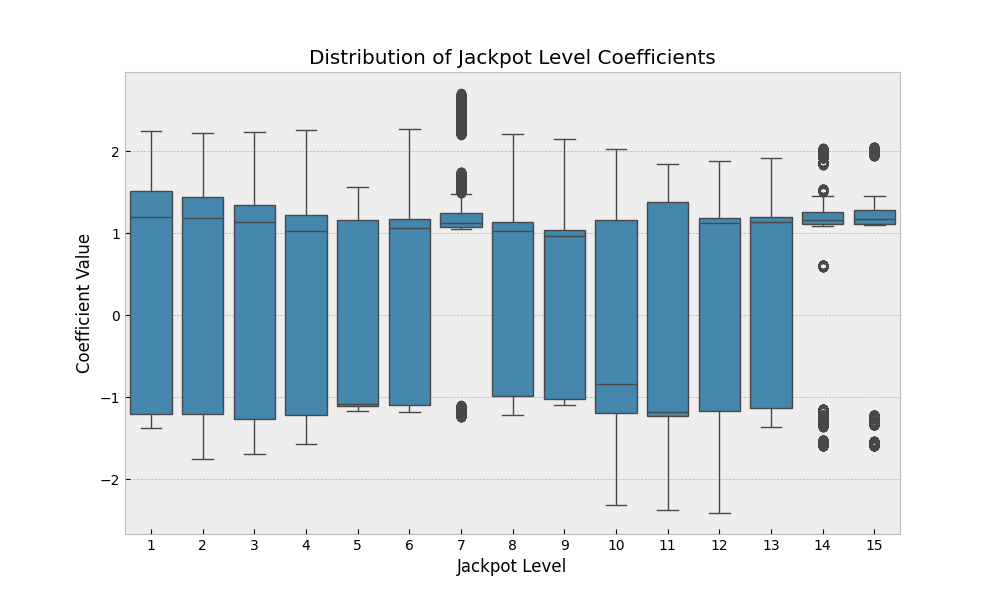
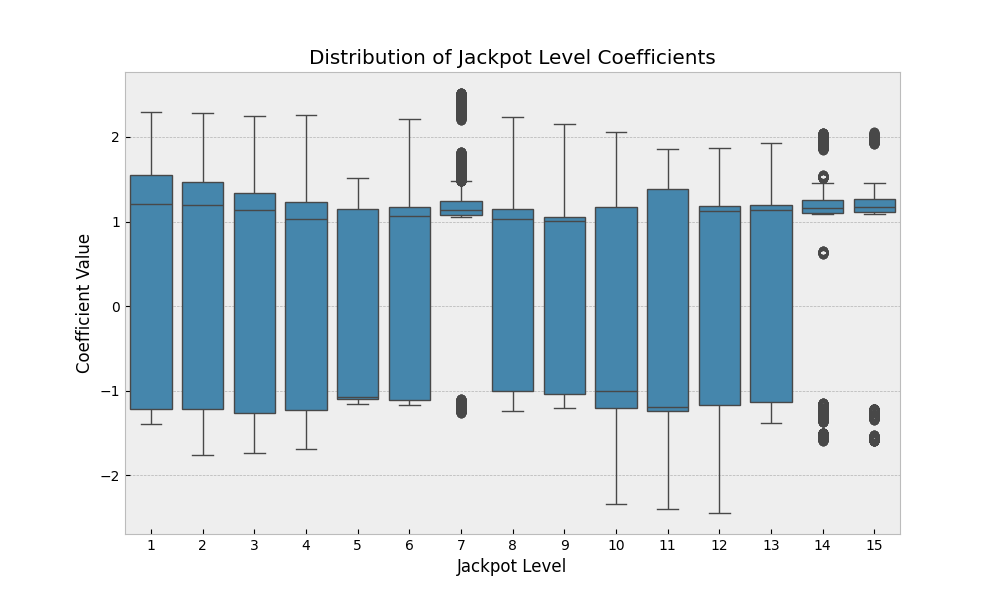
specs next stuff

diff --git a/models.py b/models.py
@@ -36,7 +36,7 @@ def bayes_linreg_model(jackpot_category,spends, sales, dayofyear, index):
     # j-pot categories
     n_jackpot_categories = len(np.unique(jackpot_category)) # infer number of categories
     with plate("jackpot_plate", n_jackpot_categories):  # Use a plate for categories
-        c_jackpot = numpyro.sample('c_jackpot', dist.Normal(0, 5)) # Prior for each category
+        c_jackpot = numpyro.sample('c_jackpot', dist.Normal(0, 10)) # Prior for each category
     #jackpot prior
     jackpot_effect = c_jackpot[jackpot_category]
     jackpot = jackpot_effect*jackpot_category
@@ -53,7 +53,7 @@ def bayes_linreg_model(jackpot_category,spends, sales, dayofyear, index):
     seasonality = day_of_year_effect[dayofyear -1]  # dayofyear is 1-indexed, so we adjust
 
     # Coefficiency spends prior
-    coef_spends = numpyro.sample('coef_spends', dist.Normal(jnp.mean(spends)/1000,jnp.std(spends)/1000))
+    coef_spends = numpyro.sample('coef_spends', dist.Normal(jnp.mean(spends)/1000,jnp.std(spends)/500))
     media_effect = coef_spends*spends
     epsilon = numpyro.sample("epsilon", dist.Normal(0, 0.05))
 
@@ -66,4 +66,5 @@ def bayes_linreg_model(jackpot_category,spends, sales, dayofyear, index):
 
 
 
-    
+
+#TODO: Create a model where jackpot level is a confounder, effecting both sales and media channels 

diff --git a/linear_algo_run.py b/linear_algo_run.py
@@ -101,7 +101,7 @@ plt.savefig("results/posterior_of_jackpot_coef.png")
 
 # Plot prior vs posterior plots in the same histogram
 fig, ax = plt.subplots()
-coef_prior= np.random.normal(jnp.mean(jnp.array(df_test['media_cost_adstock'].values)/1000), jnp.std(jnp.array(df_test['media_cost_adstock'].values)/1000), coef_spends.shape[0])
+coef_prior= np.random.normal(jnp.mean(jnp.array(df_test['media_cost_adstock'].values)/1000), jnp.std(jnp.array(df_test['media_cost_adstock'].values)/500), coef_spends.shape[0])
 sns.histplot(data=coef_prior, stat="density",color='blue', label='Prior', alpha=0.6,binwidth=1e-2)
 sns.histplot(data=coef_spends, stat="density",color='red', label = 'Posterior', alpha=0.6, binwidth=1e-4)
 ax.axvline(jnp.mean(coef_spends), color='black', linestyle='--', label=f'posterior mean: {jnp.mean(coef_spends):.4f}')

diff --git a/confounder_run.py b/confounder_run.py
@@ -1,0 +1,3 @@
+#TODO: Write a python function that takes the data, and runs the bayesian confounder model.
+
+#TODO: plot same results as in linear_algo_run.py
